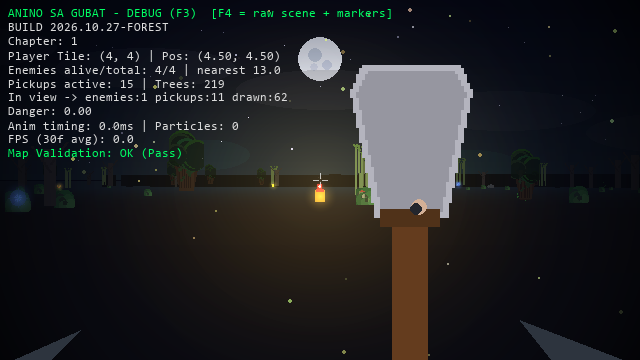
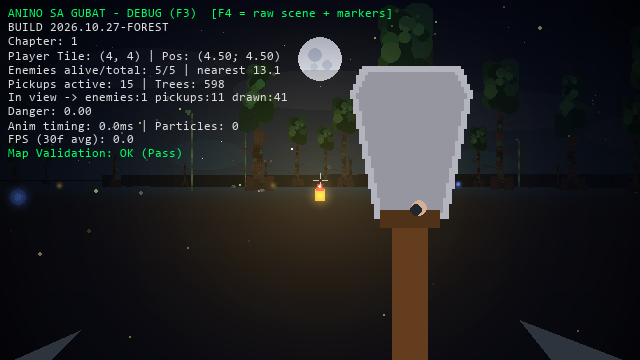
feat(map): expand map size and update to open forest layout
- Increase MAP_SIZE from 64 to 128 for a larger open forest world
- Remove artificial stone perimeter walls and center ruins dynamically
- Update NavGrid out-of-bounds return value to EMPTY and adjust tests

diff --git a/map_system.py b/map_system.py
@@ -79,19 +79,17 @@ class GameMap:
         self.chapter_num = chapter_num
         self.validation_errors = []
         self.checkpoints = []
-        
-        for y in range(self.height):
-            for x in range(self.width):
-                if x == 0 or x == self.width - 1 or y == 0 or y == self.height - 1:
-                    self.grid[y][x] = WALL_STONE
-                else:
-                    self.grid[y][x] = EMPTY
 
-        for y in range(28, 38):
-            for x in range(28, 38):
-                if (x == 32 or x == 33) and y == 37:
+        # Open forest world (no stone perimeter walls)
+        self.grid = [[EMPTY for _ in range(self.width)] for _ in range(self.height)]
+
+        # Central ruins at world center
+        cs = self.width // 2
+        for y in range(cs - 5, cs + 6):
+            for x in range(cs - 5, cs + 6):
+                if (x == cs or x == cs + 1) and y == cs + 5:
                     self.grid[y][x] = DOOR
-                elif x == 28 or x == 37 or y == 28 or y == 37:
+                elif x == cs - 5 or x == cs + 5 or y == cs - 5 or y == cs + 5:
                     self.grid[y][x] = WALL_WOOD
 
         seed_val = 42 + chapter_num

diff --git a/settings.py b/settings.py
@@ -168,12 +168,17 @@ TILE_SIZE = 64
 WALL_HEIGHT_SCALE = INTERNAL_HEIGHT * TILE_SIZE
 
 # Outdoor Forest Settings (Phases 1-4)
-MAP_SIZE = 64
-TREE_COUNT_CH1 = 380
-TREE_COUNT_CH2 = 500
+# Large open forest world: 128x128 tiles with a natural tree-line boundary
+# (no artificial stone perimeter wall).  Configurable via savegame-safe
+# constant; determinism is driven by WORLD_SEED + chapter seed.
+MAP_SIZE = 128
+WORLD_SEED = 1337          # master world seed (deterministic terrain)
+TREE_COUNT_CH1 = 600
+TREE_COUNT_CH2 = 800
 MAX_RENDER_TREES = 220
 GROUND_TEX_SIZE = 1024
-UNDERGROWTH_DENSITY = 350
+UNDERGROWTH_DENSITY = 400
+EDGE_RING_TREES = 240      # dense natural tree-line around the world edge
 
 
 # Player

diff --git a/tests/smoke_test.py b/tests/smoke_test.py
@@ -230,7 +230,7 @@ def run_extended_tests():
         gm = GameMap(1)
         nav = NavGrid(gm)
         assert nav.is_walkable(5.0, 5.0) == True
-        assert nav.is_walkable(0.5, 0.5) == False
+        assert nav.is_walkable(-1.0, -1.0) == False
         path = nav.find_path((5.0, 5.0), (10.0, 10.0))
         assert path is not None
         assert len(path) >= 2

diff --git a/pathfinder.py b/pathfinder.py
@@ -91,4 +91,4 @@ class NavGrid:
         cx, cy = self._cell(x, y)
         if 0 <= cx < self.width and 0 <= cy < self.height:
             return self.gm.grid[cy][cx]
-        return WALL_STONE
+        return EMPTY
